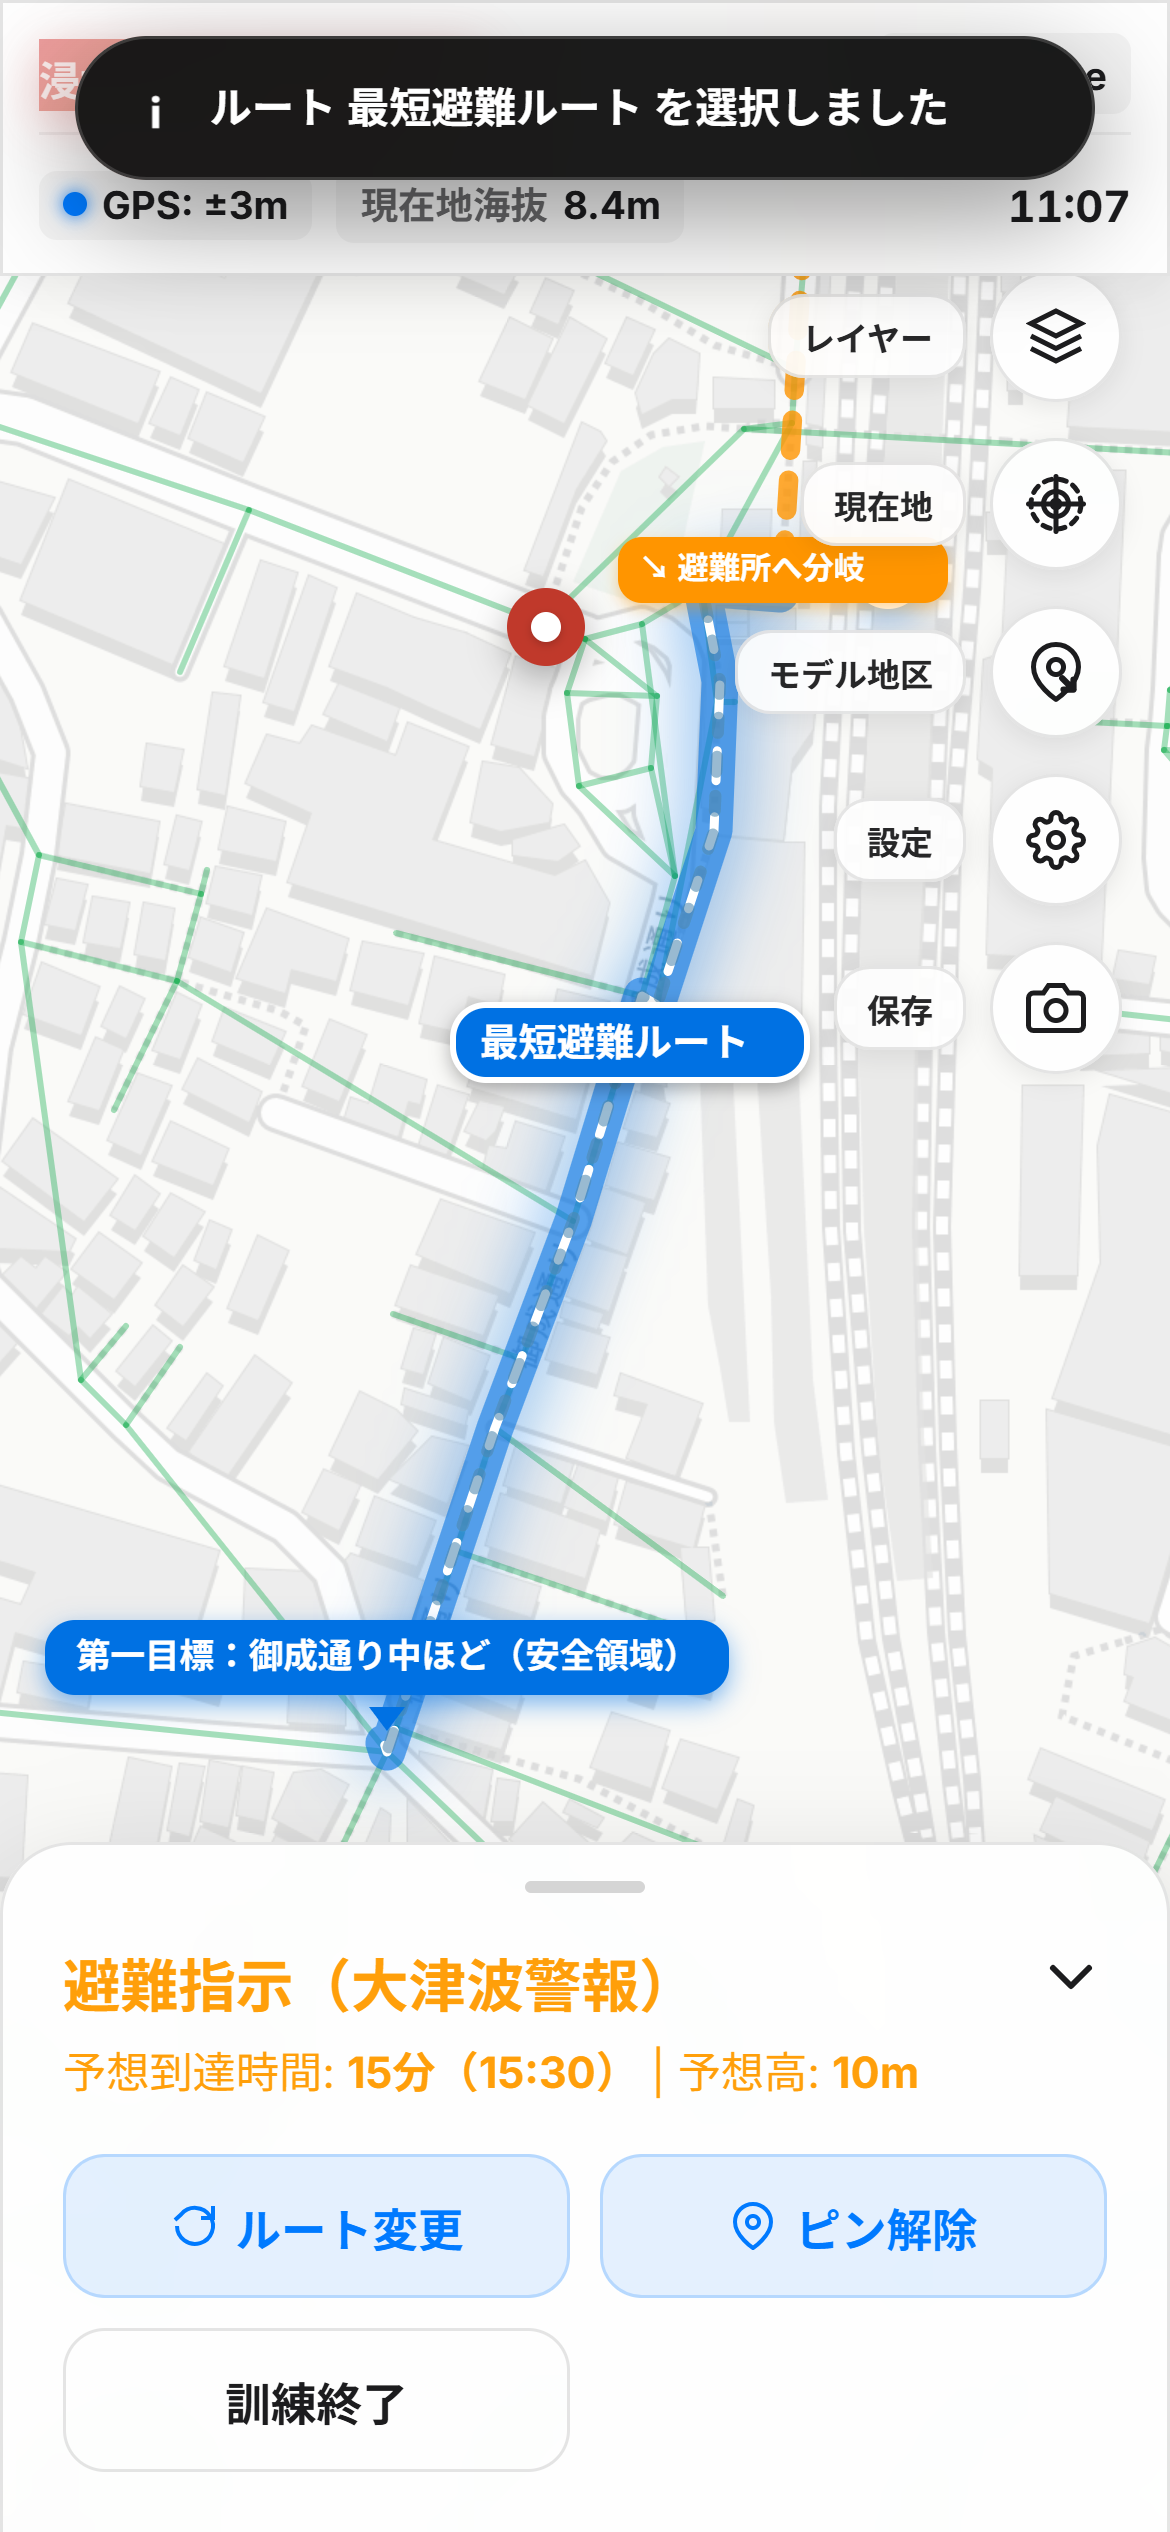
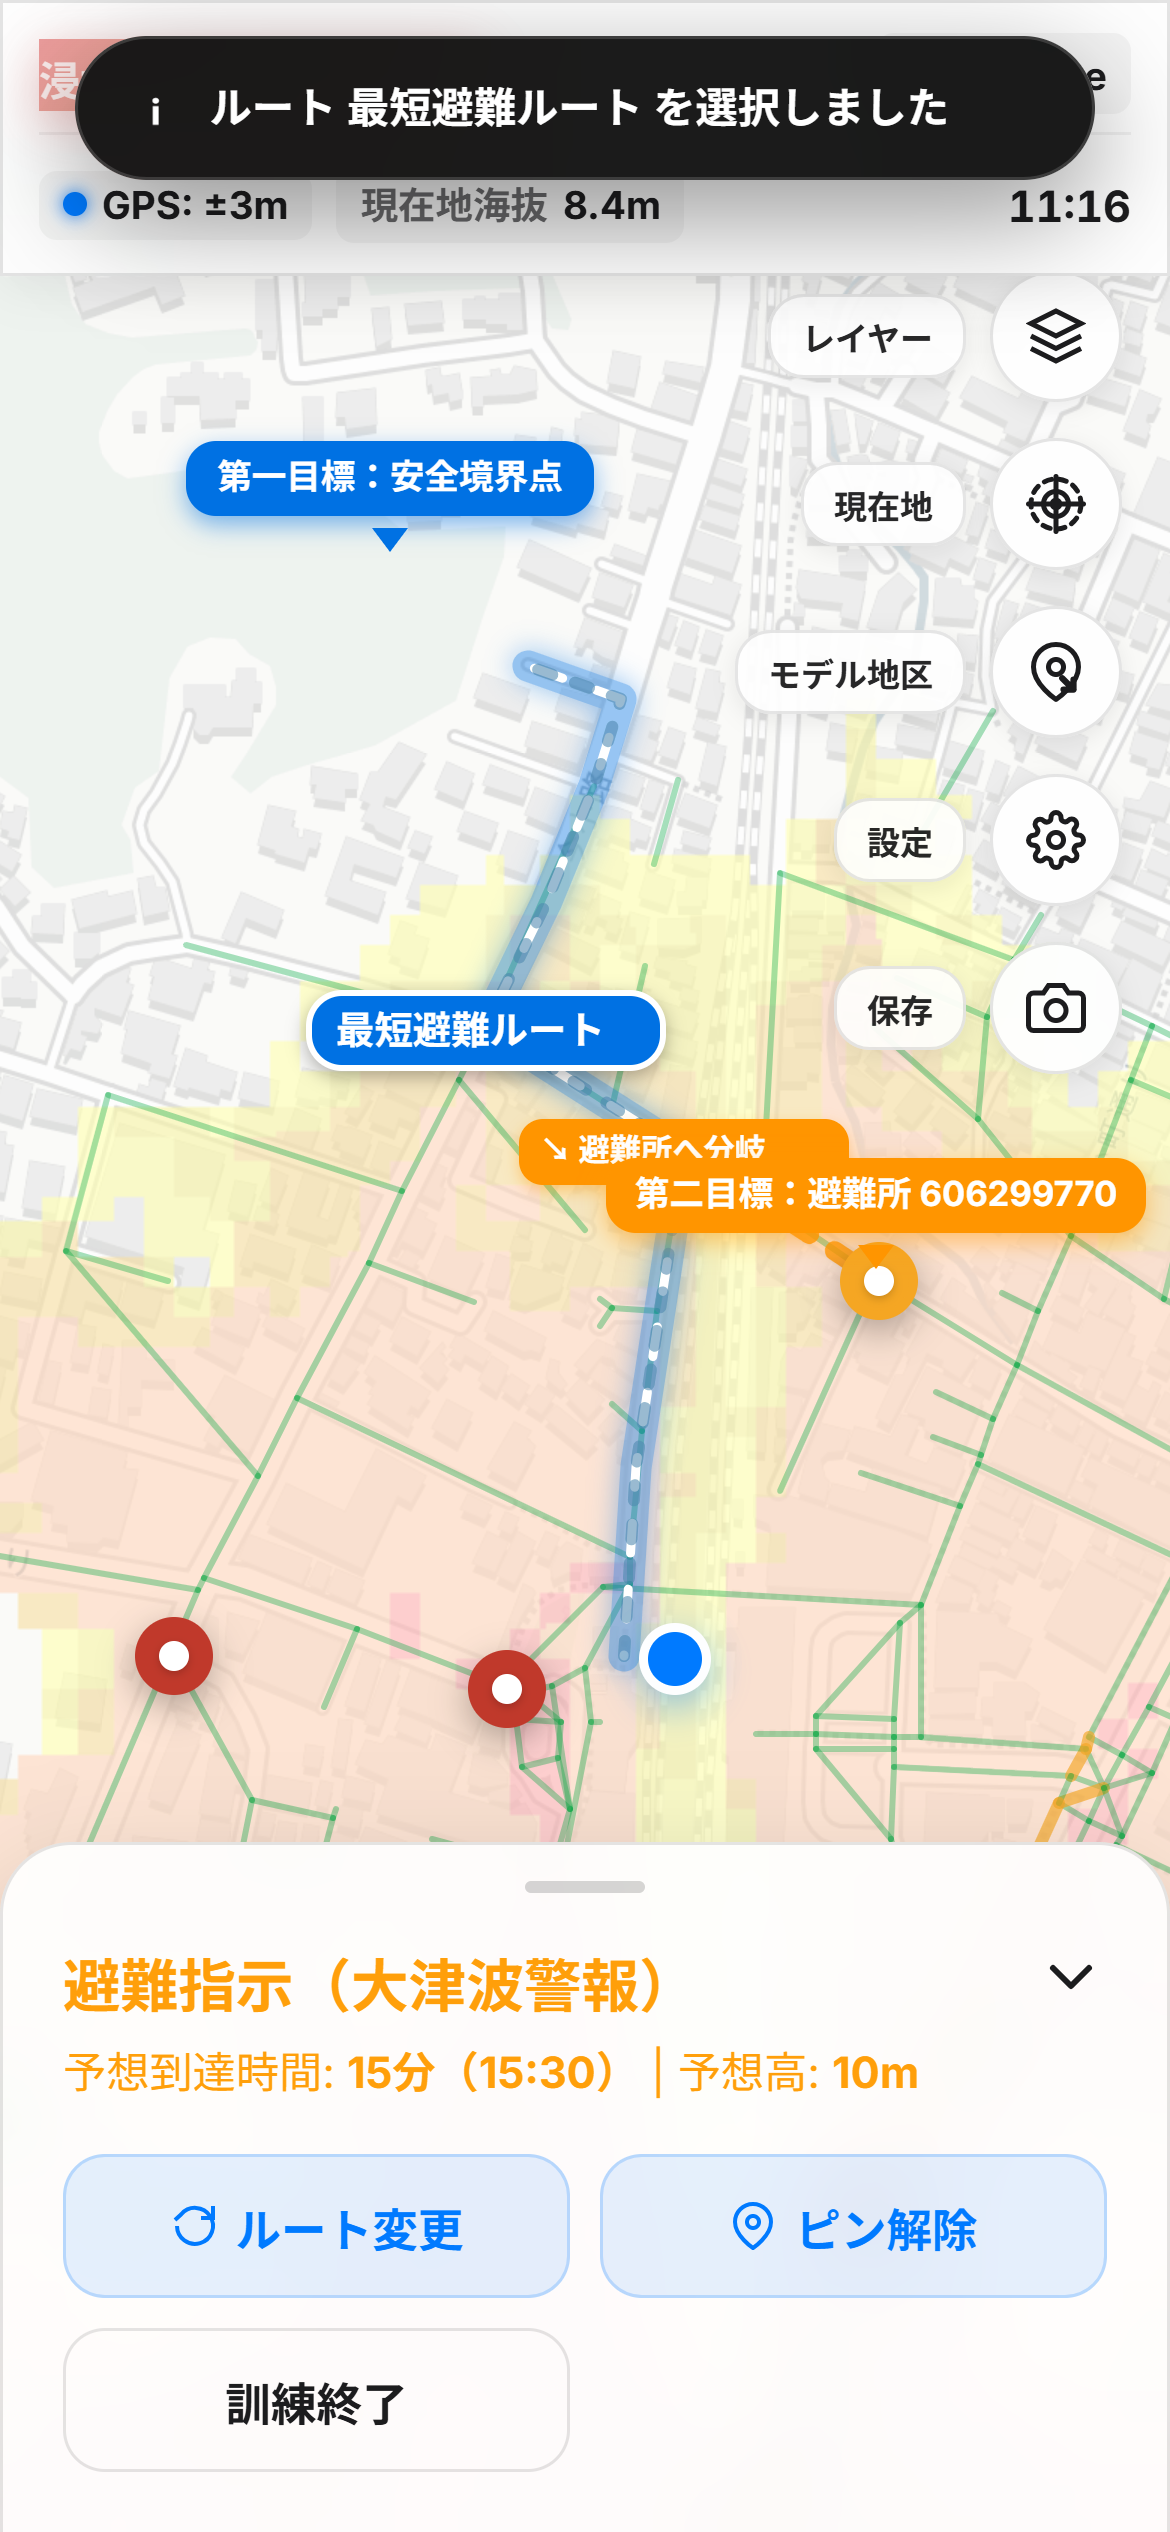
fix: strictly skip unsafe OSRM snapped targets inside inundation and extend ocean exclusions up to 139.585

diff --git a/tenden-app/app.js b/tenden-app/app.js
@@ -2268,11 +2268,11 @@ document.addEventListener('DOMContentLoaded', () => {
  // Check if the OSRM snapped last waypoint is inside the inundation zone!
  const isSnappedInside = await checkTsunamiInundation(lastWaypoint[0], lastWaypoint[1], '14');
  
- if (isSnappedInside) {
- console.warn(`[SafeEdge] OSRMスナップ先が浸水域境界付近ですが、事前スキャンで検証済みの安全点のため採用します: ${candidateEdge.name || candidateEdge.id} (スナップ先: ${lastWaypoint[0]}, ${lastWaypoint[1]})`);
- }
-
- // Found a perfectly safe snapped destination!
+  if (isSnappedInside) {
+  console.warn(`[SafeEdge] OSRMスナップ先が浸水域内のため、この候補をスキップします: ${candidateEdge.name || candidateEdge.id} (スナップ先: ${lastWaypoint[0]}, ${lastWaypoint[1]})`);
+  verificationFailed = true;
+  break;
+  }
  console.log(`[SafeEdge] 安全なスナップ先を確認: ${candidateEdge.name || candidateEdge.id} (スナップ先: ${lastWaypoint[0]}, ${lastWaypoint[1]})`);
  return candidateEdge;
  }
@@ -3102,7 +3102,7 @@ document.addEventListener('DOMContentLoaded', () => {
  * Excludes points within 300m of the coastline and 100m of Namerikawa/Sakaigawa rivers.
  */
  function isNearCoastOrWater(lat, lng) {
- if (!window.turf) return false;
+  // (Moved window.turf check below)
  
  // Strictly exclude anything outside Kamakura municipal limits:
  // Exclude if it's east of 139.585, OR if it's in Zushi/Kotsubo (east of 139.563 AND south of 35.308), OR south of 35.295.
@@ -3113,19 +3113,21 @@ document.addEventListener('DOMContentLoaded', () => {
  
  // [CRITICAL] Mathematical Ocean Exclusion:
  // Coastline coordinates from West to East in Kamakura city limits
- const coastPts = [
- { lng: 139.460, lat: 35.310 }, // Far West border
- { lng: 139.470, lat: 35.309 }, // West border
- { lng: 139.485, lat: 35.307 }, // Koshigoe
- { lng: 139.500, lat: 35.304 }, // Shichirigahama
- { lng: 139.515, lat: 35.302 },
- { lng: 139.525, lat: 35.301 }, // Inamuragasaki
- { lng: 139.535, lat: 35.310 }, // Yuigahama West
- { lng: 139.545, lat: 35.310 }, // Yuigahama Center
- { lng: 139.553, lat: 35.308 }, // Namerikawa mouth
- { lng: 139.560, lat: 35.302 }, // Zaimokuza Beach
- { lng: 139.568, lat: 35.298 } // East border (Kotsubo entrance)
- ];
+  const coastPts = [
+  { lng: 139.460, lat: 35.310 }, // Far West border
+  { lng: 139.470, lat: 35.309 }, // West border
+  { lng: 139.485, lat: 35.307 }, // Koshigoe
+  { lng: 139.500, lat: 35.304 }, // Shichirigahama
+  { lng: 139.515, lat: 35.302 },
+  { lng: 139.525, lat: 35.301 }, // Inamuragasaki
+  { lng: 139.535, lat: 35.310 }, // Yuigahama West
+  { lng: 139.545, lat: 35.310 }, // Yuigahama Center
+  { lng: 139.553, lat: 35.308 }, // Namerikawa mouth
+  { lng: 139.560, lat: 35.302 }, // Zaimokuza Beach
+  { lng: 139.568, lat: 35.298 }, // East border (Kotsubo entrance)
+  { lng: 139.575, lat: 35.292 }, // Zushi Marina / Kotsubo
+  { lng: 139.585, lat: 35.290 }  // Zushi Beach / East border
+  ];
 
  // Find the exact coastline latitude at the point's longitude using linear interpolation
  let coastLat = null;
@@ -3145,7 +3147,8 @@ document.addEventListener('DOMContentLoaded', () => {
  return true;
  }
 
- const pt = turf.point([lng, lat]);
+  if (!window.turf) return false;
+   const pt = turf.point([lng, lat]);
  
  // Coastline coordinates from West to East (covers Kamakura entire coast and Kotsubo peninsula)
  const coastLine = turf.lineString([
